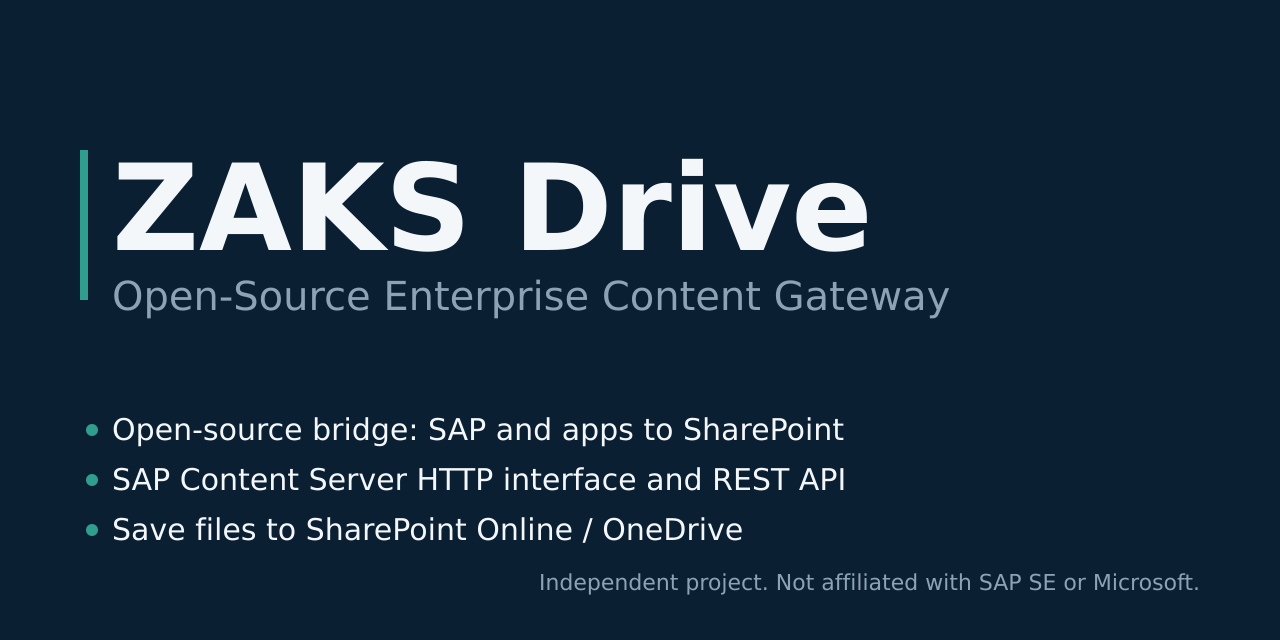
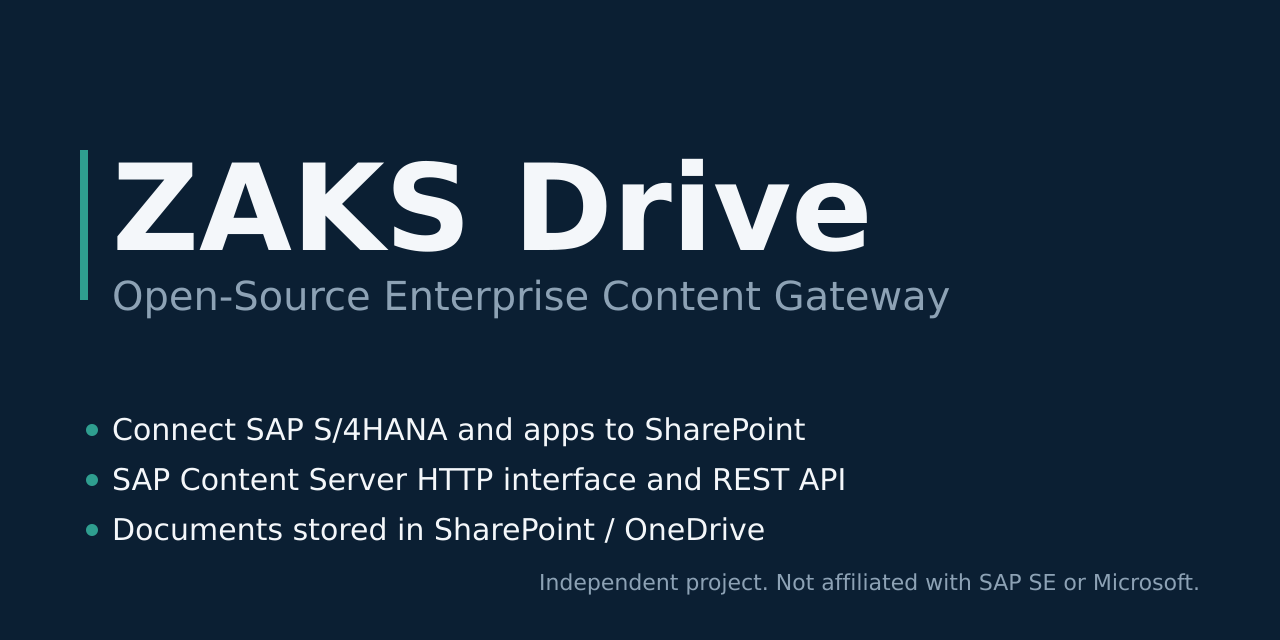
Reposition the README introduction around the value proposition
Leads with what ZAKS Drive solves, separates the two independent interfaces,
and states that it is a content storage gateway rather than a DMS. Image label,
docs index and social preview use the same wording.

Changed region(s): [[0.0938, 0.6562, 0.6562, 0.6875], [0.0938, 0.8125, 0.5938, 0.8438]]

diff --git a/README.md b/README.md
@@ -1,6 +1,17 @@
 # ZAKS Drive
 
-**Open-Source Enterprise Content Gateway.** An open-source bridge that saves files from SAP S/4HANA and your applications to Microsoft SharePoint Online or OneDrive for Business, through the SAP Content Server HTTP interface and a REST API.
+**Open-Source Enterprise Content Gateway**
+
+Connect SAP S/4HANA and enterprise applications to Microsoft SharePoint Online and OneDrive for Business—without building custom storage integrations.
+
+ZAKS Drive is a lightweight, self-hosted content gateway that provides an SAP-compatible Content Server interface and a REST API for storing, retrieving, and managing documents through Microsoft Graph. Documents are stored in your SharePoint document library or OneDrive, so they stay under the Microsoft 365 security, retention and backup you already run.
+
+Two independent interfaces; use either one or both:
+
+- **SAP Content Server HTTP interface** for SAP DMS, KPro and applicable attachment scenarios (OAC0 content repositories).
+- **REST API** for Fiori applications and other enterprise applications.
+
+ZAKS Drive is a content storage gateway, not a document management application: it has no user interface, workflow or business metadata of its own.
 
 [![CI](https://github.com/Lamiv/sharepointS4DMSAdapter/actions/workflows/ci.yml/badge.svg)](https://github.com/Lamiv/sharepointS4DMSAdapter/actions/workflows/ci.yml)
 [![License: MIT](https://img.shields.io/badge/license-MIT-blue.svg)](LICENSE)
@@ -10,7 +21,7 @@
 
 ## What it is
 
-ZAKS Drive is one small Go service in a Docker container. SAP sees it as an HTTP content server (transaction OAC0). Your own applications see a REST API. Both store files in a SharePoint document library through Microsoft Graph, so documents sit in the Microsoft 365 you already govern, search and back up. There is no database to run.
+ZAKS Drive is one small Go service in a Docker container. SAP sees it as an HTTP content server (transaction OAC0); your own applications see a REST API. Each interface works on its own, and both store documents in a SharePoint document library through Microsoft Graph. There is no database to run.
 
 ## Why it exists
 

diff --git a/docs/index.md b/docs/index.md
@@ -1,6 +1,6 @@
 # ZAKS Drive documentation
 
-ZAKS Drive is an open-source gateway that lets SAP S/4HANA and custom applications store documents in Microsoft SharePoint Online and OneDrive for Business. Start with the [README](../README.md) for what it is; this index is the way into everything else.
+ZAKS Drive is an open-source content gateway that connects SAP S/4HANA and enterprise applications to Microsoft SharePoint Online and OneDrive for Business through an SAP-compatible Content Server interface and a REST API. Start with the [README](../README.md) for what it is; this index is the way into everything else.
 
 ## Choose your path
 
